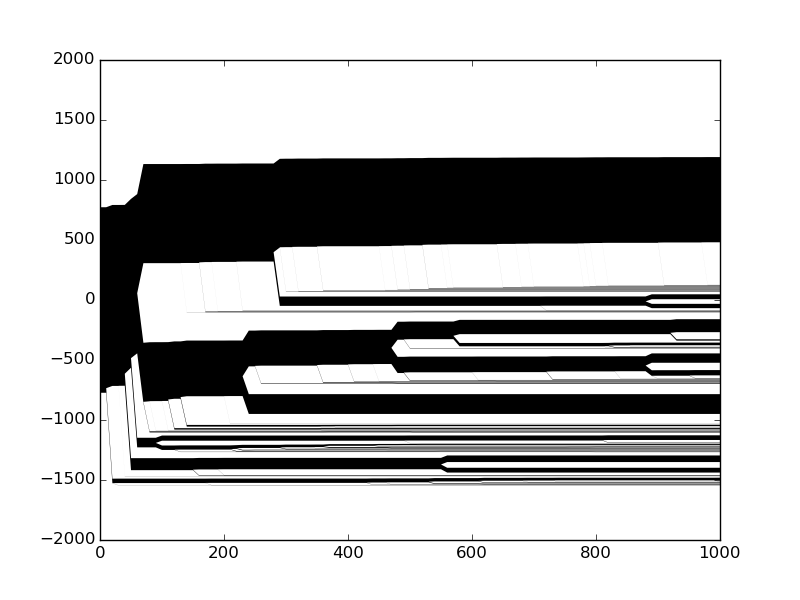
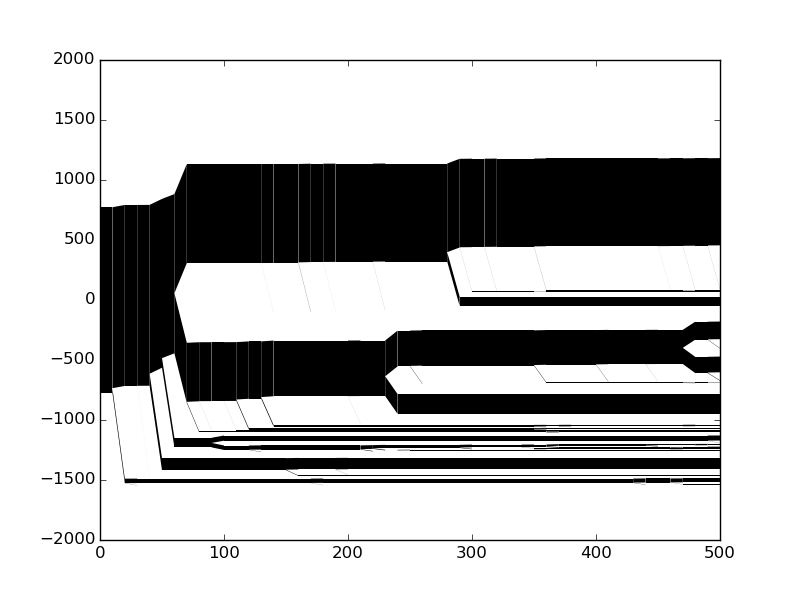
Fiddling with drawing

diff --git a/bifurcate.py b/bifurcate.py
@@ -4,6 +4,7 @@ from random import random, randrange
 
 class Node:
     __slots__ = ('haplos', 'children', 'distance', 'delta_y', 'post_nonsplit')
+
     def __init__(self, haplos, children=(), distance=0, delta_y=0, post_nonsplit=False):
         self.haplos = haplos
         self.children = children
@@ -12,16 +13,24 @@ class Node:
         self.post_nonsplit = post_nonsplit
 
     def __repr__(self):
-        return 'h:' + str(self.haplos) + ' d:'+ str(self.distance) + ' y:'+str(self.delta_y) + ' c:'+str(len(self.children))+'(' + ','.join(map(repr, self.children))+')'
+        return 'h:' + str(self.haplos) + ' d:' + str(self.distance) + ' y:' + str(self.delta_y) + ' c:' + str(
+            len(self.children)) + '(' + ','.join(map(repr, self.children)) + ')'
+
 
 class Drawing:
     def __init__(self):
         self.codes = []
         self.verts = []
         self._bez_codes = (Path.MOVETO,
-         Path.CURVE4,
-         Path.CURVE4,
-         Path.CURVE4,)
+                           Path.CURVE4,
+                           Path.CURVE4,
+                           Path.CURVE4,
+                           Path.LINETO,
+                           Path.CURVE4,
+                           Path.CURVE4,
+                           Path.CURVE4,
+                           Path.CLOSEPOLY,
+                           )
         self._line_codes = (Path.MOVETO,
                             Path.LINETO,
                             Path.LINETO,
@@ -29,49 +38,55 @@ class Drawing:
                             Path.CLOSEPOLY,
                             )
 
-    def horiz_bezier(self, start, end):
-        mid = (start[0] + end[0]) / 2
-        self.verts += (start,
-                 (mid, start[1]),
-                 (mid, end[1]),
-                 end)
-        self.codes += self._bez_codes
-
     def horiz_bezier_segment(self, start, end, width):
-        start = (start[0], start[1] + width/2)
-        end = (end[0], end[1] + width/2)
-        self.horiz_bezier(start, end)
-        start = (start[0], start[1] - width)
-        end = (end[0], end[1] - width)
-        self.horiz_bezier(start, end)
+        mid = (start[0] + end[0]) / 2
+        start = (start[0], start[1] + width / 2)
+        end = (end[0], end[1] + width / 2)
+        verts = [start,
+            (mid, start[1]),
+            (mid, end[1]),
+            end
+        ]
+        end = (start[0], start[1] - width)
+        start = (end[0], end[1] - width)
+        verts += [start,
+            (mid, start[1]),
+            (mid, end[1]),
+            end,
+            (None, None)
+        ]
+        self.codes.append(self._bez_codes)
+        self.verts.append(verts)
 
-    def line_segment(self, start, end, width,):
-        one = (start[0], start[1] - width/2)
-        two = (start[0], start[1] + width/2)
-        four = (end[0], end[1] - width/2)
-        three = (end[0], end[1] + width/2)
-        self.codes += self._line_codes
-        self.verts += (one,
-                       two,
-                       three,
-                       four,
-                       (0,0))
+    def line_segment(self, start, end, width):
+        one = (start[0], start[1] - width / 2)
+        two = (start[0], start[1] + width / 2)
+        four = (end[0], end[1] - width / 2)
+        three = (end[0], end[1] + width / 2)
+        self.codes.append(self._line_codes)
+        self.verts.append((one,
+                           two,
+                           three,
+                           four,
+                           (None, None)))
 
-    def path(self):
-        return Path(self.verts, self.codes)
+    def paths(self):
+        return (Path(verts, codes) for verts, codes in zip(self.verts, self.codes))
+
 
 def draw(d, x, y, y_offset, width, delta_x, delta_y, children):
-#    d.horiz_bezier_segment((x, y+y_offset), (x+delta_x, y+delta_y), width)
+    #d.horiz_bezier_segment((x, y + y_offset), (x + delta_x, y + delta_y), width)
     d.line_segment((x, y+y_offset), (x+delta_x, y+delta_y), width)
 
     top = width
     for c in children:
-        top = top - c.haplos#(haplos = width)
-        draw(d, x+delta_x, y+delta_y, top + (c.haplos/2) - (width/2), c.haplos, c.distance*10, c.delta_y, c.children)
+        top = top - c.haplos  #(haplos = width)
+        draw(d, x + delta_x, y + delta_y, top + (c.haplos / 2) - (width / 2), c.haplos, c.distance * 10, c.delta_y,
+             c.children)
 
 
 def tree(matrix):
-    #First dim is variants
+    # First dim is variants
     nodes = (Node(list(range(matrix.shape[1]))),)
     new_nodes = nodes
 
@@ -91,10 +106,10 @@ def tree(matrix):
                 len_p = len(node.haplos)
                 len_0 = len(separation[0])
                 len_1 = len(separation[1])
-                mid = len_p-(2*len_0)
+                mid = len_p - (2 * len_0)
                 node.children = (
-                    Node(separation[0], delta_y=mid+len_0),
-                    Node(separation[1], delta_y=mid-len_1)
+                    Node(separation[0], delta_y=mid + len_0),
+                    Node(separation[1], delta_y=mid - len_1)
                 )
                 node.haplos = len(node.haplos)
                 nodes_todo += node.children

diff --git a/test.py b/test.py
@@ -36,7 +36,7 @@ test_data = (
 #draw(d, 0, 0, 0, 10, 0, 0, test_data)
 
 
-mat = np.load('haplotypes.npy')#[:100, :100]
+mat = np.load('haplotypes.npy')[:50, :]
 print(mat)
 print(mat.shape)
 
@@ -47,9 +47,10 @@ draw(d, 0, 0, 0, mat.shape[1], 0, 0, tree)
 fig = plt.figure()
 ax = fig.add_subplot(111)
 ax.set_ylim(-2000, 2000)
-ax.set_xlim(0, 1000)
-patch = patches.PathPatch(d.path(), facecolor='black', lw=0)
-ax.add_patch(patch)
+ax.set_xlim(0, 500)
+for path in d.paths():
+    patch = patches.PathPatch(path, facecolor='black', lw=0)
+    ax.add_patch(patch)
 plt.savefig('bah.png')
 plt.savefig('bah.svg')
 print(tree)
